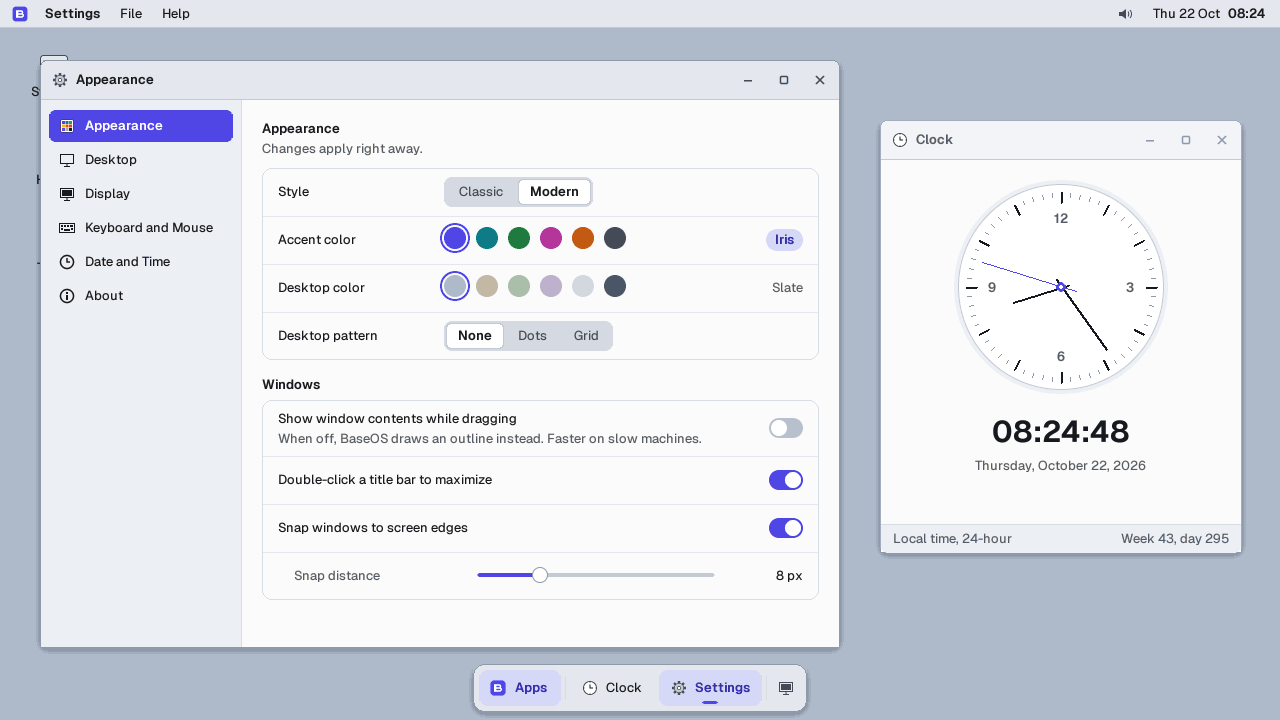
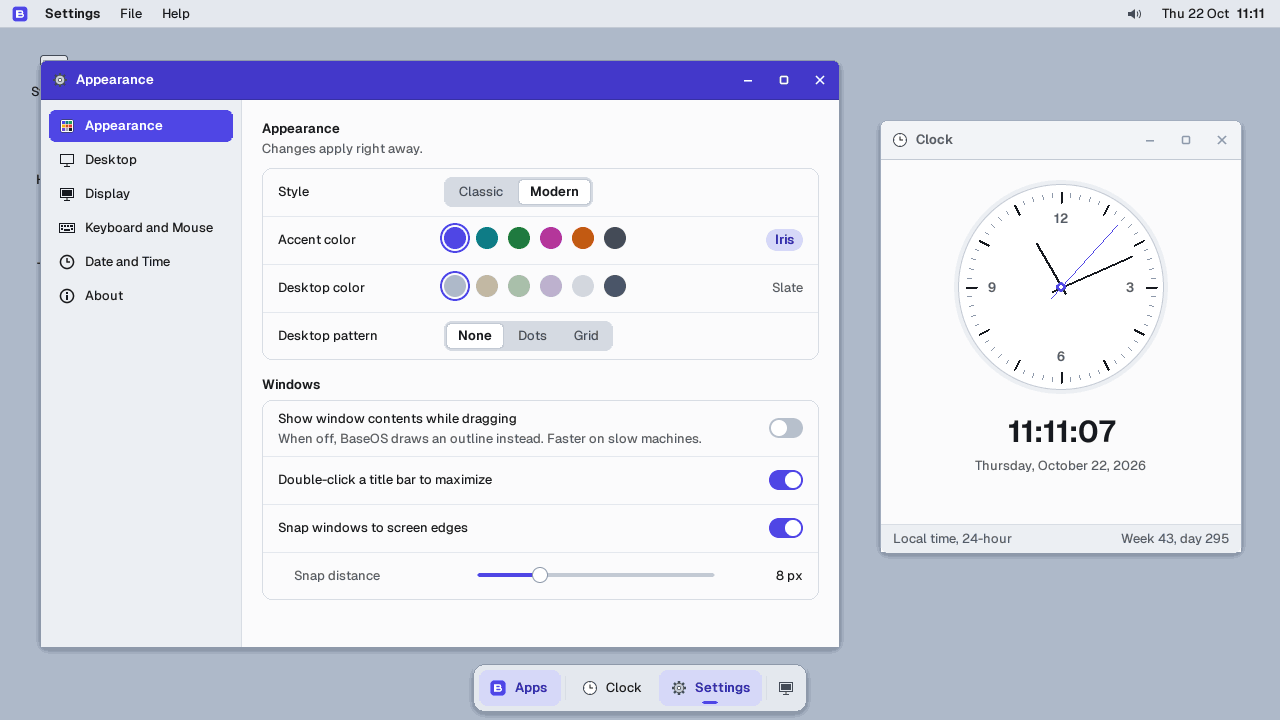
Modern title bars use the accent color (#23)
In the Modern style the active window's header takes the accent color, as Classic's title bar does; inactive windows keep the muted header.

diff --git a/src/shell/desktop/desktop.c b/src/shell/desktop/desktop.c
@@ -270,11 +270,12 @@ static int caption_pointer_ok(void);
 static void draw_caption(int bx, int by, int icon, int active, int close, int hot) {
     int hover = hot && caption_pointer_ok() && hit(mouse_x, mouse_y, bx, by, CAP_W, CAP_H);
     int pressed = hover && mouse_left;
-    uint8_t ink = MODERN ? (active ? TK_ICON : TK_LINE_STRONG) : (active ? TK_ON_ACCENT : TK_TEXT2);
-    uint8_t bg = MODERN ? (active ? ui_theme.chrome : TK_46) : (active ? TK_ACCENT_600 : TK_45);
+    /* Both styles put active captions on the accent title bar. */
+    uint8_t ink = active ? TK_ON_ACCENT : MODERN ? TK_LINE_STRONG : TK_TEXT2;
+    uint8_t bg = active ? TK_ACCENT_600 : MODERN ? TK_46 : TK_45;
     if (hover) {
         if (close) bg = pressed ? TK_RED_700 : TK_RED;
-        else bg = MODERN ? TK_HOVER : active ? (pressed ? TK_ACCENT_700 : TK_ACCENT) : TK_HOVER;
+        else bg = active ? (pressed ? TK_ACCENT_700 : TK_ACCENT) : TK_HOVER;
         if (close) ink = TK_ON_ACCENT;
         kit_fill(bx, by, CAP_W, CAP_H, MODERN ? 6 : KIT_R_SQUARE, bg, 1);
     }
@@ -314,10 +315,10 @@ void gui_draw_window(int x, int y, int w, int h, const char *title,
         int r = maxed ? KIT_R_SQUARE : ui_theme.r_window;
         if (!maxed) kit_shadow(x, y, w, h, r);
         kit_fill(x, y, w, h, r, ui_theme.content, 0);
-        kit_fill_top(x, y, w, TITLE_BAR - 1, r, active ? ui_theme.chrome : TK_46);
-        draw_hline(x + 1, y + TITLE_BAR - 1, w - 2, TK_LINE);
+        kit_fill_top(x, y, w, TITLE_BAR - 1, r, active ? TK_ACCENT_600 : TK_46);
+        draw_hline(x + 1, y + TITLE_BAR - 1, w - 2, active ? TK_ACCENT_700 : TK_LINE);
         kit_frame(x, y, w, h, r, active ? TK_LINE_STRONG : TK_47);
-        title_ink = active ? TK_TEXT : TK_TEXT2;
+        title_ink = active ? TK_ON_ACCENT : TK_TEXT2;
         icon_x = x + 12; icon_y = y + 12; tx = x + 36; ty = y + 11;
     } else {
         if (!maxed) kit_shadow(x, y, w, h, 0);
@@ -343,11 +344,11 @@ void gui_draw_window(int x, int y, int w, int h, const char *title,
         if (chrome_dirty) {
             int dx = tx + kit_text_w(title, 1) + ui_advance(' ') + 1;
             if (dx > xmax + 4) dx = xmax + 4;
-            kit_fill(dx, ty + UI_FONT_H / 2 - 2, 5, 5, 2, MODERN ? TK_TEXT2 : title_ink, 0);
+            kit_fill(dx, ty + UI_FONT_H / 2 - 2, 5, 5, 2, title_ink, 0);
         }
         if (chrome_subtitle) {
             int sx = tx + kit_text_w(title, 1) + 6;
-            if (sx < xmax - 24) kit_text(chrome_subtitle, sx, ty, MODERN ? TK_TEXT2 : active ? TK_ACCENT_100 : TK_LINE_STRONG, xmax - sx, 0);
+            if (sx < xmax - 24) kit_text(chrome_subtitle, sx, ty, active ? TK_ACCENT_100 : MODERN ? TK_TEXT2 : TK_LINE_STRONG, xmax - sx, 0);
         }
     }
 

diff --git a/docs/DESIGN.md b/docs/DESIGN.md
@@ -13,7 +13,7 @@ and the metrics struct, so nothing else needs to know which style is active.
 
 | | Classic | Modern |
 |---|---|---|
-| Window frame | 1px border, 28px accent title bar, 24px menu row inside the window | 38px light header with rounded corners, menus in a 28px top bar |
+| Window frame | 1px border, 28px accent title bar, 24px menu row inside the window | 38px accent header with rounded corners (muted when inactive), menus in a 28px top bar |
 | Window content | `TK_46` | `TK_BASE` |
 | Sidebars, status bars | `TK_BASE`, separated by 1px rules | `TK_SUNKEN` |
 | Menus, dialogs, launcher | `TK_RAISED` overlay with a hard 2px shadow | `TK_46` overlay with a two-band soft shadow |
